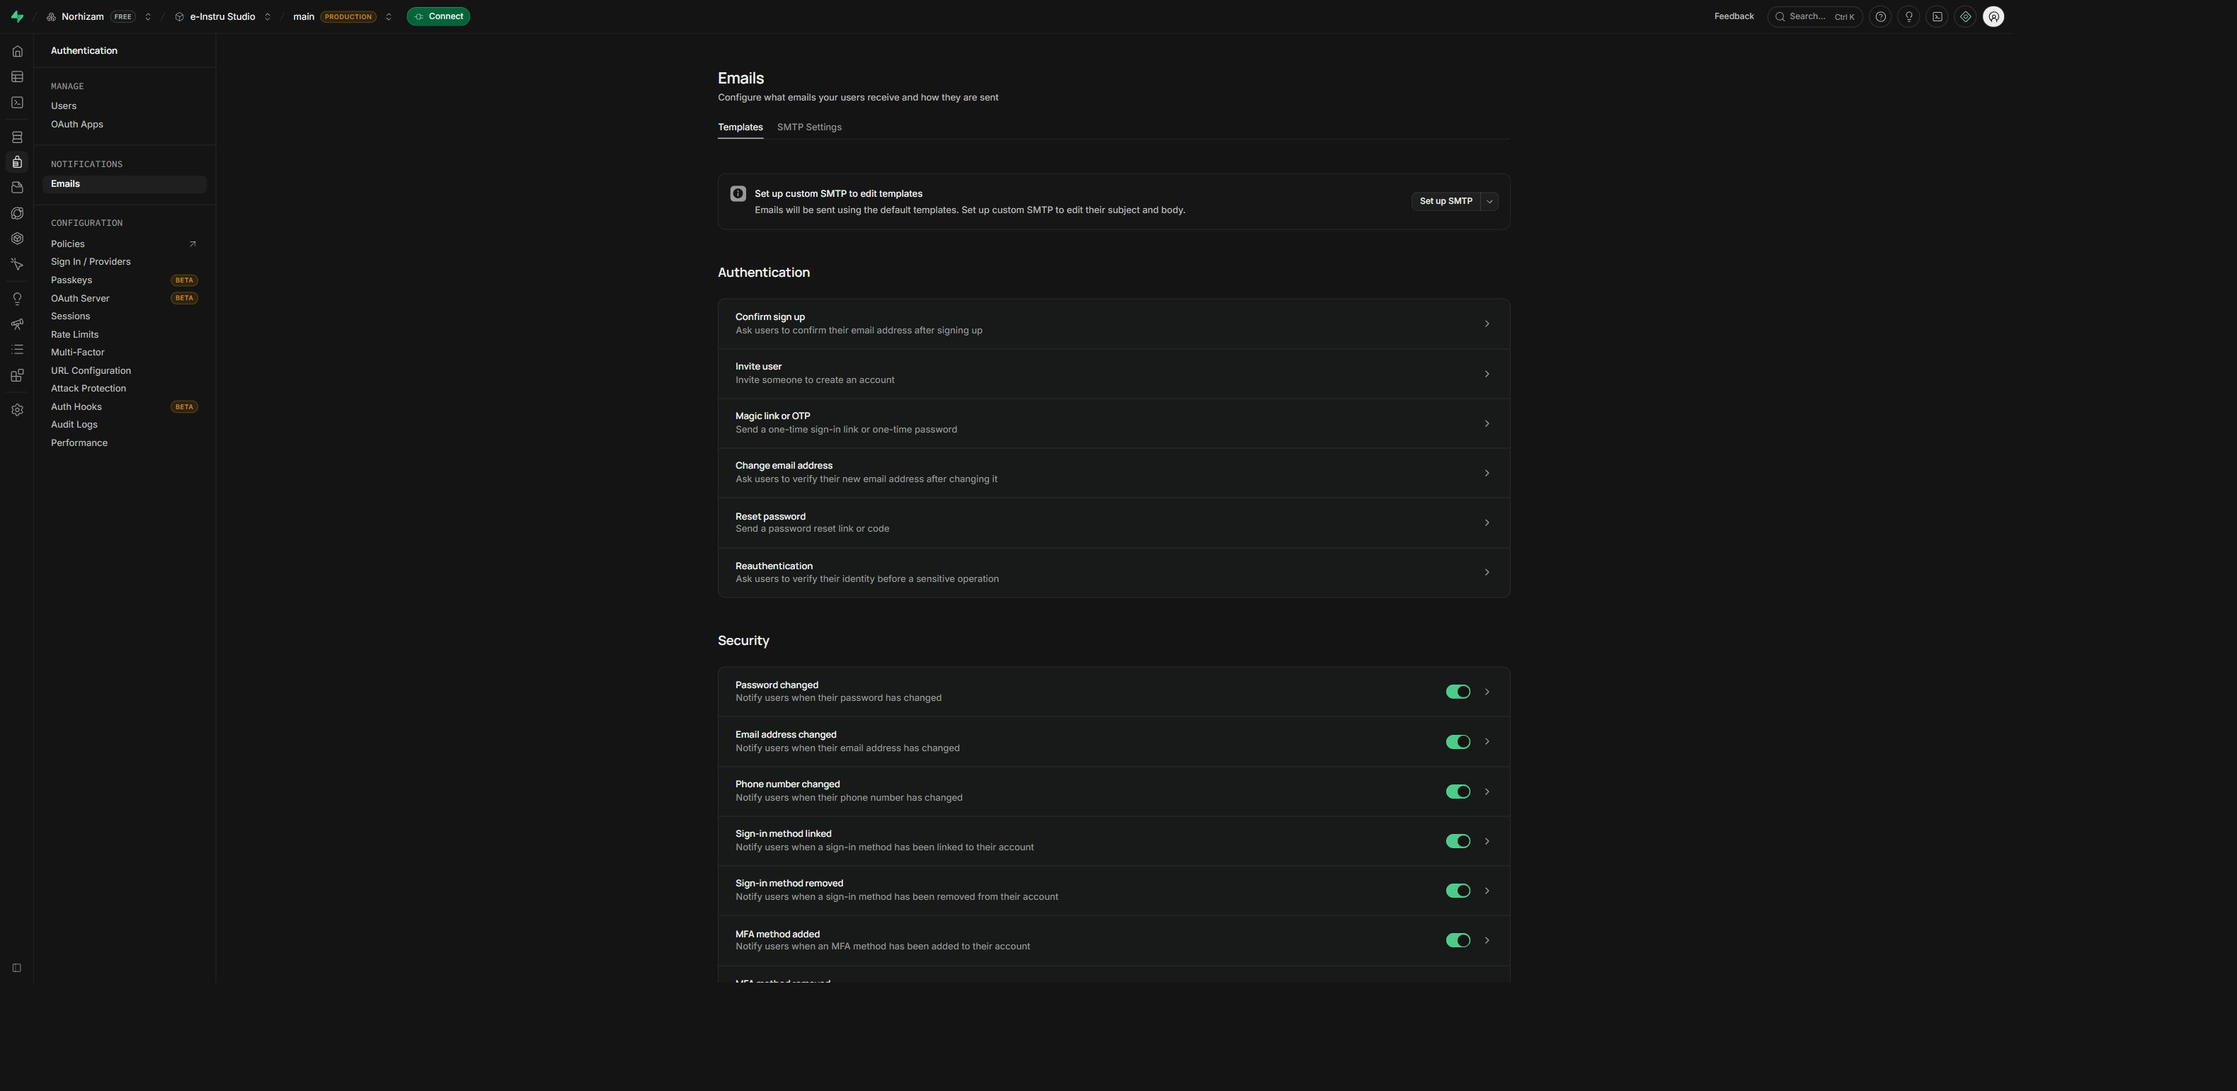
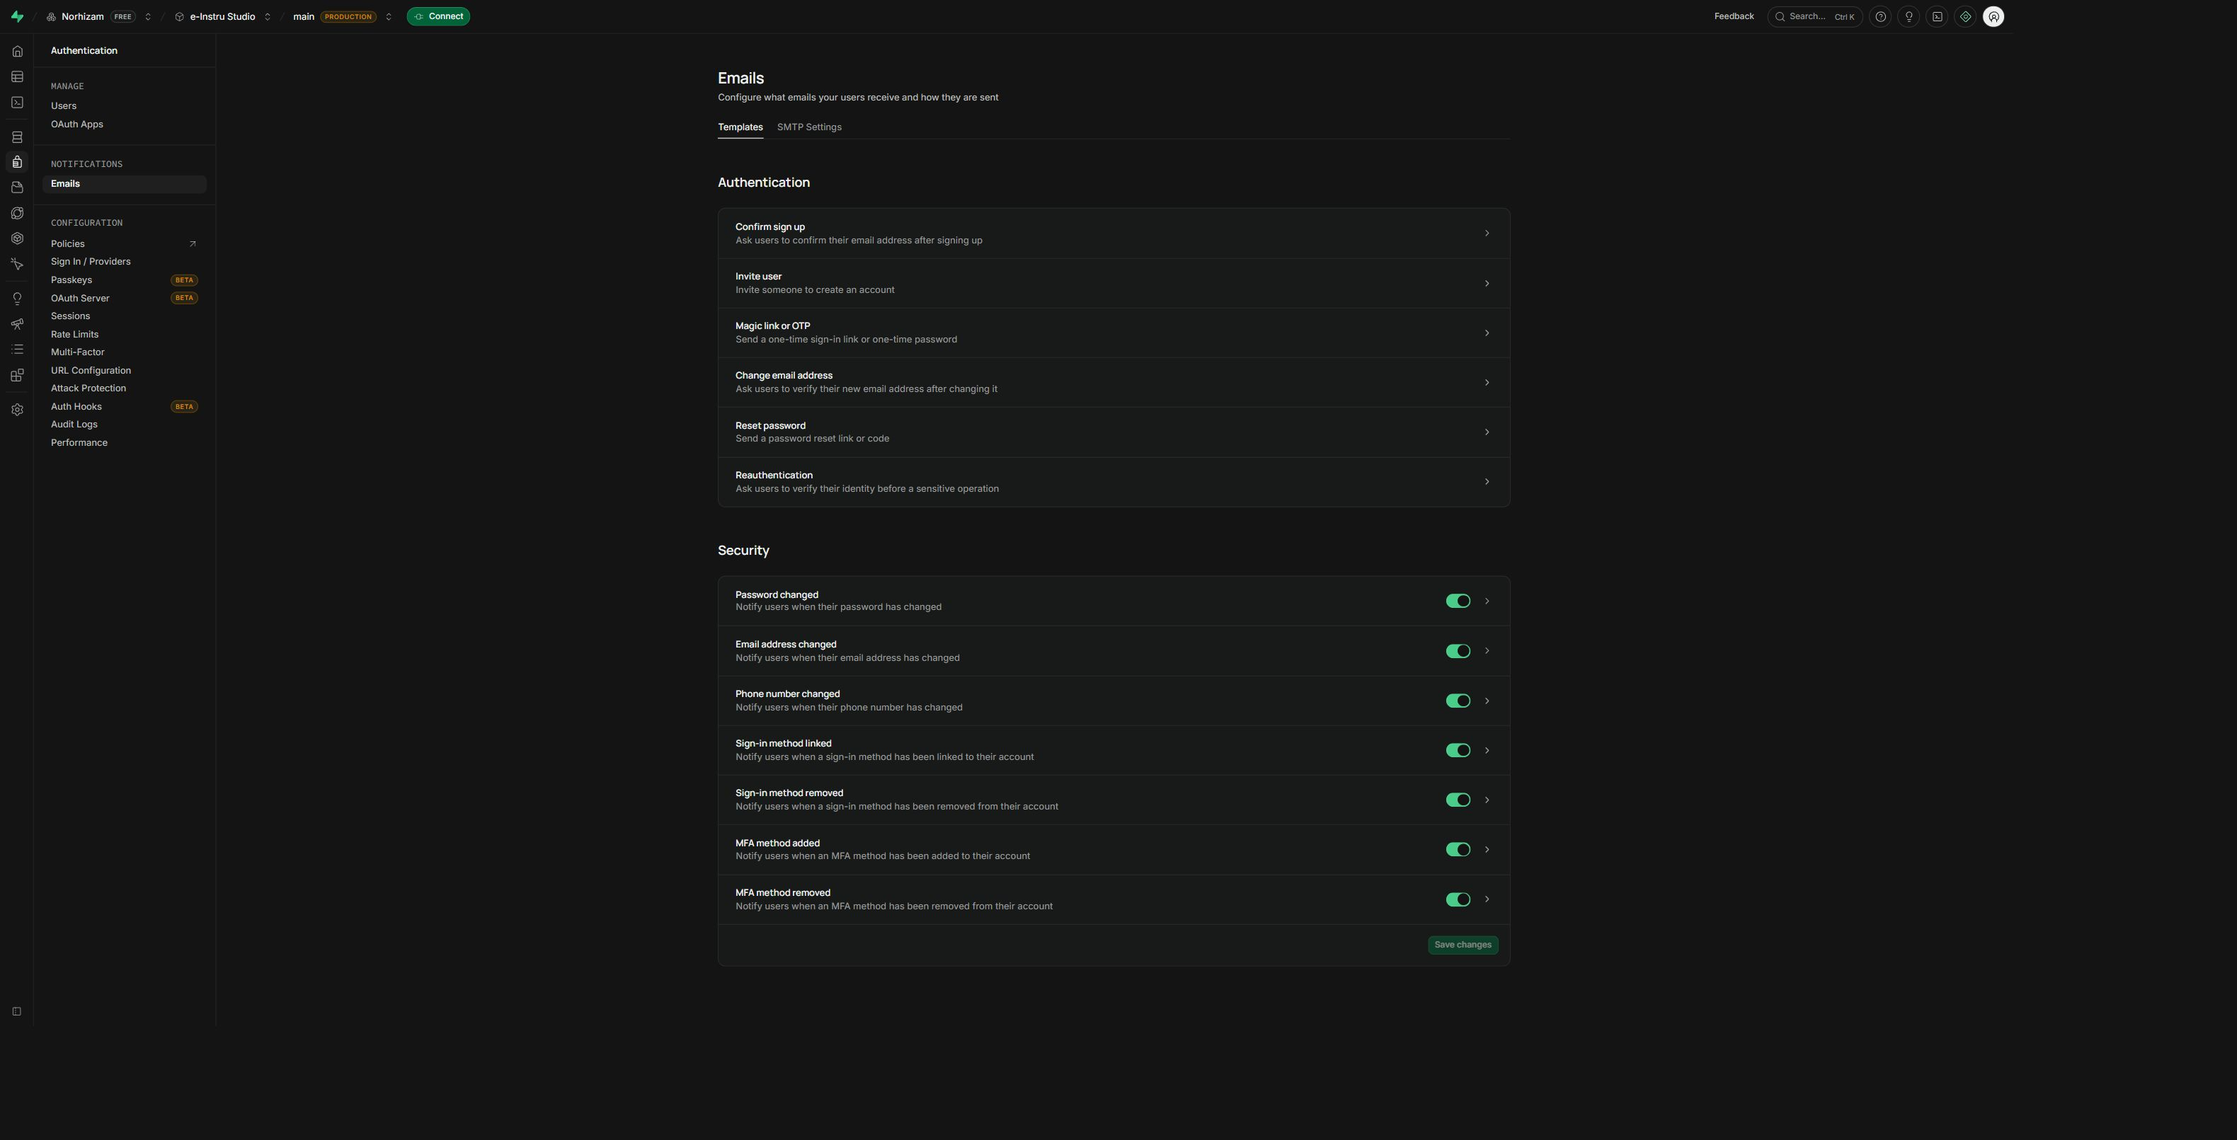
Record verified activation of all hosted Auth email templates

diff --git a/docs/handoffs/auth-supabase/LATEST.md b/docs/handoffs/auth-supabase/LATEST.md
@@ -22,11 +22,11 @@ Opening Account stops capture/playback with takes preserved and pauses Game. Its
 - Email provider and new signup enabled, confirmation required, secure email/password change enabled, current password required, minimum password length 8. Phone/OAuth/anonymous signup were not enabled.
 - All seven security-email notification switches saved ON. These switches do not add phone/OAuth/MFA management UI.
 
-## Email blocker
+## Hosted email status
 
-All 13 branded BM templates, subjects and exact Management API mappings are prepared under `supabase/templates`; the local generator validates 33 fields, including seven true notification flags. **Custom SMTP is not configured.** The new Free project's Dashboard explicitly blocks custom template editing until SMTP is set up, and its default sender restricts public delivery. The hosted templates therefore remain Supabase defaults. No real signup/recovery/notification mail was sent or inbox delivery verified.
+All 13 branded BM templates, subjects and exact Management API mappings are maintained under `supabase/templates`; the local generator validates 33 fields, including seven true notification flags. Custom SMTP was observed configured/enabled during the final Dashboard pass. All 13 subjects and HTML bodies were saved on the dedicated project; every body was copied from the visible editor after reloading and matched its source exactly after CRLF normalization. Some subject controls were privacy-redacted; their writes/saves are recorded without claiming verbatim readback for all subjects. No SMTP credentials were read or committed. No real signup/recovery/notification mail was sent or inbox delivery verified.
 
-Continue by selecting a provider, configuring its verified sender/host/port/username and secret directly in the project SMTP settings, then applying all 13 prepared templates. Do not put SMTP passwords, management tokens or service-role keys in chat, HTML or Git. Complete real email round trips after the candidate is promoted to the callback host. Use [AUTH_EMAILS.md](../../AUTH_EMAILS.md) and the template manifest for exact subjects/variables.
+Complete real email round trips after the candidate is promoted to the callback host. Saved SMTP settings alone do not prove that its credentials or delivery work. Do not put SMTP passwords, management tokens or service-role keys in chat, HTML or Git. Use [AUTH_EMAILS.md](../../AUTH_EMAILS.md) and the template manifest for exact subjects/variables. [Hosted email checks](hosted-emails.json) records all 13 source/body matches.
 
 ## Verification
 
@@ -35,6 +35,6 @@ Continue by selecting a provider, configuring its verified sender/host/port/user
 - Live database rollback-only RLS tests passed: own reads/writes accepted, cross-user writes/reads excluded, immutable columns/deletion/anon denied, length/type/size constraints enforced. Fixtures were rolled back; hosted users/profiles both remain zero.
 - Live security advisor returned zero lints. Migration history and grants/RLS were read back.
 - Cloud Chromium: native modal initial focus, empty-form errors without network submission, forward Tab trap, Escape/focus restoration, signup form, and 320/390px framed layout. Actual document widths 310/380px including native scrollbars, scrollWidth equal to clientWidth; modal fits inside each. Desktop visual check passed.
-- All 13 template source checks passed. Email visual catalogue could not be loaded through the preview route; no email-client rendering or delivery is claimed. No physical speaker/microphone/acoustic measurement.
+- All 13 template source checks and hosted body readbacks passed. Email visual catalogue could not be loaded through the preview route; no email-client rendering or delivery is claimed. No physical speaker/microphone/acoustic measurement.
 
-Evidence: [node tests](node-tests.txt), [verification.json](verification.json), and [saved notification settings](screenshots/email-settings.png). Six subagents were used; none spawned additional agents. No main, share, tutorial or other worker branch was pushed by this task.
+Evidence: [node tests](node-tests.txt), [verification.json](verification.json), [hosted emails](hosted-emails.json), and [saved notification settings](screenshots/email-settings.png). The [draft PR](https://github.com/unDead41/xylo-studio/pull/1) contains the candidate; both GitHub push/PR CI checks passed for runtime commit `2eb0d8f5fc02e31e272ffb70236045449730563b`. Six subagents were used; none spawned additional agents. No main, share, tutorial or other worker branch was pushed by this task.

diff --git a/README.md b/README.md
@@ -12,9 +12,9 @@ Projek Supabase khusus `ahvyieyojqciohdogsqc` diwujudkan di Singapore dalam orga
 
 Fungsi akaun memerlukan rangkaian dan laman HTTPS. URL callback hos ialah `https://undead41.github.io/xylo-studio/`; buka pautan pengesahan/pemulihan di hos yang dibenarkan, bukan fail `file://`. `index.html` membundel SDK `supabase-js` versi tetap `2.118.0` secara inline daripada salinan vendor; tiada CDN atau fail SDK luar dimuatkan ketika aplikasi dibuka. Konfigurasi pelayar hanya menggunakan URL projek dan kunci awam; kunci `service_role`, kata laluan SMTP dan token pengurusan tidak boleh dimasukkan dalam HTML atau Git.
 
-Semua 13 templat e-mel BM tersedia sebagai sumber dalam [manifest templat](supabase/templates/manifest.json): enam aliran pengesahan dan tujuh pemberitahuan keselamatan. Semak sumber dengan `node supabase/templates/build-config.mjs --check`. Penyediaan sumber tidak bermaksud templat telah aktif pada hos atau e-mel telah sampai. Custom SMTP belum disediakan untuk projek ini; pengaktifan templat tersuai dan penghantaran e-mel kepada pengguna awam masih memerlukan konfigurasi tersebut. Templat telefon, identiti dan MFA melengkapkan konfigurasi e-mel; ia tidak menambah aliran UI tersebut ke aplikasi.
+Semua 13 templat e-mel BM tersedia sebagai sumber dalam [manifest templat](supabase/templates/manifest.json): enam aliran pengesahan dan tujuh pemberitahuan keselamatan. Semak sumber dengan `node supabase/templates/build-config.mjs --check`. Custom SMTP diperhatikan telah dikonfigurasi dan diaktifkan pada Dashboard projek ini. Subjek dan kandungan semua 13 templat telah disimpan pada hos; kandungan setiap templat dibaca semula selepas halaman dimuat semula dan sepadan tepat dengan sumber. Ketujuh-tujuh pemberitahuan keselamatan diaktifkan. Penghantaran ke peti masuk dan aliran pengesahan akaun melalui e-mel belum diuji; semakan ini tidak menghantar e-mel atau mencipta pengguna sebenar. Templat telefon, identiti dan MFA melengkapkan konfigurasi e-mel; ia tidak menambah aliran UI tersebut ke aplikasi.
 
-Perubahan ini belum dipromosikan ke `main` melalui tugasan ini. GitHub Pages terus menerbitkan sumber `main`; ujian hos dan penghantaran e-mel sebenar perlu dilaporkan berasingan daripada ujian simulasi. Versi diterima kekal **v1.04.0**.
+Cabang ini tersedia untuk semakan dalam [draf PR #1](https://github.com/unDead41/xylo-studio/pull/1) dan belum dipromosikan ke `main`. GitHub Pages terus menerbitkan sumber `main`; konfigurasi hos dan ujian simulasi dilaporkan berasingan daripada bukti penghantaran e-mel sebenar. Versi diterima kekal **v1.04.0**.
 
 ## Instrumen
 

diff --git a/docs/SOR.md b/docs/SOR.md
@@ -42,6 +42,6 @@ The new Supabase project is `ahvyieyojqciohdogsqc`, Singapore, organization Norh
 
 Runtime delivery remains one self-contained `index.html`. The vendored `supabase-js` SDK is pinned to `2.118.0` and bundled inline, retaining its provenance and license. Account operations require network access and HTTPS hosting. Verification/recovery callbacks use the allowed root `https://undead41.github.io/xylo-studio/`; file downloads remain usable as guest instruments but are not the account callback destination. Callback handling validates the session, explains invalid/expired links and removes credentials from the URL.
 
-Thirteen Malay email templates and their field/subject manifest are source-controlled under `supabase/templates`: six authentication templates and seven security notifications. Source validation and a generated configuration payload do not prove hosted activation or delivery. Custom SMTP has not been provided for this project's public email delivery or custom-template activation. Report that setup gap explicitly until completed and verified. Notification templates for phone, identity and MFA events do not expand the implemented UI beyond email/password accounts.
+Thirteen Malay email templates and their field/subject manifest are source-controlled under `supabase/templates`: six authentication templates and seven security notifications. Custom SMTP was observed configured and enabled in the hosted project's Dashboard. All thirteen subjects and bodies were saved; each body was read back after reloading and matched the source exactly. All seven security notification toggles are enabled. Inbox delivery and a complete account email round trip remain unverified; no emails were sent or real users created during this verification. Saved hosted configuration, source validation and a generated configuration payload are separate from delivery evidence. Notification templates for phone, identity and MFA events do not expand the implemented UI beyond email/password accounts.
 
 Test the actual inline account source, callback and session handling, profile isolation and offline guest behavior. Keep provider/network fixtures distinct from live hosted tests and inbox delivery evidence. The task may update `auth-supabase`; promotion to main requires a new explicit user request. Share/tutorial and the current Pages settings remain unchanged.

diff --git a/AGENTS.md b/AGENTS.md
@@ -19,4 +19,4 @@ This is a self-contained digital music studio and browser game. Read docs/SOR.md
 - The Supabase account/email task is isolated on `auth-supabase` from main SHA `c0ba48bb9c35244354779cc227ecb7c999bff5dd`. The task exception permits work on that branch only; it does not authorize pushing main or other workers' branches. Main promotion needs a new direct request. Keep VERSION `v1.04.0`, share/tutorial snapshots and Pages settings unchanged.
 - Accounts are optional. Preserve guest/offline access, all eight instruments, ten songs, Game and existing local recordings. Authentication never uploads or clears local takes or raw audio. Database scope is user-owned profiles under RLS, using the dedicated project `ahvyieyojqciohdogsqc` (Singapore, organization Norhizam).
 - Bundle pinned vendored `supabase-js` `2.118.0` inline in the self-contained HTML, preserving provenance/license; do not introduce a runtime CDN. Account operations need network/HTTPS and use the allowed hosted callback root `https://undead41.github.io/xylo-studio/`. Browser configuration contains public project values only, never service-role, management or SMTP secrets.
-- Maintain all 13 Malay email template sources and distinguish source validation from hosted activation and live delivery. Custom SMTP is not yet supplied for this new project's public delivery/custom templates. Do not claim delivered email from a successful API request or mocked test. Keep profile/session tests separate from raw audio and recording behavior.
+- Maintain all 13 Malay email template sources and distinguish source validation, saved hosted configuration and live delivery. Custom SMTP was observed configured and enabled; all 13 subjects and bodies were saved on the hosted project, each body matched the source exactly after reloading, and all seven security notifications are enabled. Inbox delivery and a complete account email round trip remain unverified; no emails were sent or real users created during this verification. Do not claim delivered email from saved configuration, a successful API request or a mocked test. Never expose SMTP sender/account details or secrets in verification records. Keep profile/session tests separate from raw audio and recording behavior.

diff --git a/docs/BRANCH_POLICY.md b/docs/BRANCH_POLICY.md
@@ -29,4 +29,4 @@ Semua branch lama dalam migrasi dipelihara sebagai parent sejarah main sebelum n
 
 Pengecualian tugasan Kompang (4 November 2026): arahan langsung bagi tugasan instrumen tersebut membenarkan push hasil gabungannya yang diuji ke `main` dalam `unDead41/xylo-studio`. Kebenaran sejarah itu tidak meliputi push main bagi ciri baharu. Tiada branch `main-digitalized` dalam repositori ini. Branch ui, instrument-tamborin, share dan tutorial tidak ditulis oleh tugasan tersebut. Tiada perubahan tetapan Pages diperlukan.
 
-Pengecualian tugasan akaun/e-mel Supabase: gunakan `auth-supabase` daripada main SHA `c0ba48bb9c35244354779cc227ecb7c999bff5dd`, dengan folder kerja tersendiri. Projek Supabase khusus `ahvyieyojqciohdogsqc` membekalkan Auth dan profil RLS; Studio/Game tetamu dan rakaman tempatan dikekalkan. Kebenaran tugasan ini tidak meliputi push main, cabang pekerja lain, share atau tutorial. Promosi ke main memerlukan arahan langsung baharu selepas calon gabungan diuji. Versi diterima kekal `v1.04.0`; Pages kekal main/root. Sumber bagi semua 13 templat e-mel disemak berasingan daripada status aktivasi hos dan penghantaran sebenar; custom SMTP belum disediakan.
+Pengecualian tugasan akaun/e-mel Supabase: gunakan `auth-supabase` daripada main SHA `c0ba48bb9c35244354779cc227ecb7c999bff5dd`, dengan folder kerja tersendiri. Projek Supabase khusus `ahvyieyojqciohdogsqc` membekalkan Auth dan profil RLS; Studio/Game tetamu dan rakaman tempatan dikekalkan. Kebenaran tugasan ini tidak meliputi push main, cabang pekerja lain, share atau tutorial. Promosi ke main memerlukan arahan langsung baharu selepas calon gabungan diuji. Versi diterima kekal `v1.04.0`; Pages kekal main/root. Custom SMTP diperhatikan telah dikonfigurasi dan diaktifkan. Subjek dan kandungan semua 13 templat telah disimpan pada hos; kandungan setiap templat sepadan tepat dengan sumber selepas halaman dimuat semula, dan ketujuh-tujuh pemberitahuan keselamatan diaktifkan. Penghantaran ke peti masuk dan aliran akaun melalui e-mel belum diuji; semakan ini tidak menghantar e-mel atau mencipta pengguna sebenar. Konfigurasi hos dan bukti penghantaran dilaporkan berasingan.

diff --git a/UX-CONTRACT.md b/UX-CONTRACT.md
@@ -49,4 +49,4 @@ Email requests use neutral wording so the interface does not confirm whether an 
 
 Account data is limited to the authenticated user's profile in the RLS-protected `profiles` table. Credentials remain with Supabase Auth. The bundled SDK and browser configuration contain no `service_role` key, SMTP secret or management token. Account/profile state and errors remain independent of the local export-password gate.
 
-All thirteen Malay email templates are maintained as source: confirmation, invitation, magic link, email change, password recovery, reauthentication, and notifications for password/email/phone changes, identity link/unlink and MFA enrollment/unenrollment. These templates do not imply that phone, social identity or MFA management UI exists. Custom SMTP has not been supplied for the new project; hosted template activation and public email delivery remain separate unfinished setup work. Tests of source templates or mocked requests must not be reported as a live email round trip.
+All thirteen Malay email templates are maintained as source: confirmation, invitation, magic link, email change, password recovery, reauthentication, and notifications for password/email/phone changes, identity link/unlink and MFA enrollment/unenrollment. These templates do not imply that phone, social identity or MFA management UI exists. Custom SMTP was observed configured and enabled. All thirteen subjects and bodies were saved on the hosted project; each body matched the source exactly after reloading. All seven security notifications are enabled. Inbox delivery and a complete account email round trip remain unverified; no emails were sent or real users created during this verification. Saved configuration, source tests and mocked requests must not be reported as a live email round trip.

diff --git a/docs/AUTH_EMAILS.md b/docs/AUTH_EMAILS.md
@@ -10,7 +10,7 @@ Mengubah fail dalam repositori sahaja tidak menerbitkan templat ke projek Supaba
 
 Projek baharu **e-Instru Studio** (`ahvyieyojqciohdogsqc`, Singapore) telah diwujudkan. Pengesahan e-mel, secure email change, secure password change dan keperluan kata laluan semasa telah disimpan; panjang minimum ialah lapan aksara. Ketujuh-tujuh suis notifikasi keselamatan telah diaktifkan dan disimpan pada Dashboard.
 
-SMTP tersuai masih belum dikonfigurasi. Dashboard memaparkan “Set up custom SMTP to edit templates”, maka 13 HTML berjenama dalam repositori belum diterbitkan; hos masih menggunakan templat lalai. Tiada e-mel sebenar dihantar atau disahkan sampai dalam tugasan ini. Status ini berbeza daripada kejayaan ujian kod dan pengaktifan suis notifikasi.
+SMTP tersuai kini dikesan aktif dan telah disimpan pada projek. Semua 13 subjek serta HTML berjenama telah disimpan melalui Dashboard; setiap kandungan HTML dibaca semula selepas halaman dimuatkan semula dan dipadankan tepat dengan fail sumber. Sesetengah ruangan subjek dilindungi dalam paparan automasi, maka subjek direkod sebagai ditaip/disimpan, bukan semuanya dibaca semula secara verbatim. Tiada kelayakan SMTP dibaca atau dimasukkan dalam repositori. Tiada e-mel sebenar dihantar atau disahkan sampai dalam tugasan ini; pengesahan kandungan hos berbeza daripada penghantaran ke peti masuk.
 
 Site URL ialah `https://undead41.github.io/xylo-studio/`. Enam redirect URL tepat telah ditambah: Site URL, URL `index.html`, serta Site URL dengan `?auth_flow=signup`, `?auth_flow=recovery`, `?auth_flow=magiclink` dan `?auth_flow=email_change`. Tiada wildcard hos lain dibenarkan. Aplikasi mengendalikan callback pada akar laman dan membuang kelayakan callback daripada sejarah URL.
 

diff --git a/DESIGN.md b/DESIGN.md
@@ -93,4 +93,4 @@ Account controls use the existing teal palette, local fonts, rounded native cont
 
 Account dialogs must respect existing shortcut and audio lifecycle boundaries: typing cannot play notes, opening or closing a form cannot manufacture captured events, and account transitions cannot erase local takes or Game records. Account/profile state has its own owner; it does not reuse the local export-password gate. On narrow screens, the account controls and forms fit the document width and preserve native keyboard focus and dismissal.
 
-Email templates in `supabase/templates` reuse the e-Instru name, teal action color and Malay wording in email-compatible HTML. There are thirteen source templates, covering six authentication messages and seven security notifications. Their presence in Git does not establish hosted activation or delivery: custom SMTP remains unconfigured for the new project. The application must not present SMTP setup or template-source validation as a delivered email.
+Email templates in `supabase/templates` reuse the e-Instru name, teal action color and Malay wording in email-compatible HTML. All thirteen subjects and bodies have been saved in the hosted project; each body was read back after reloading and matched the source exactly. Custom SMTP was observed configured and enabled, and all seven security notifications are enabled. Inbox delivery and a complete account email round trip remain unverified; no emails were sent or real users created during this verification. The application must not present saved templates, SMTP setup or source validation as a delivered email.
